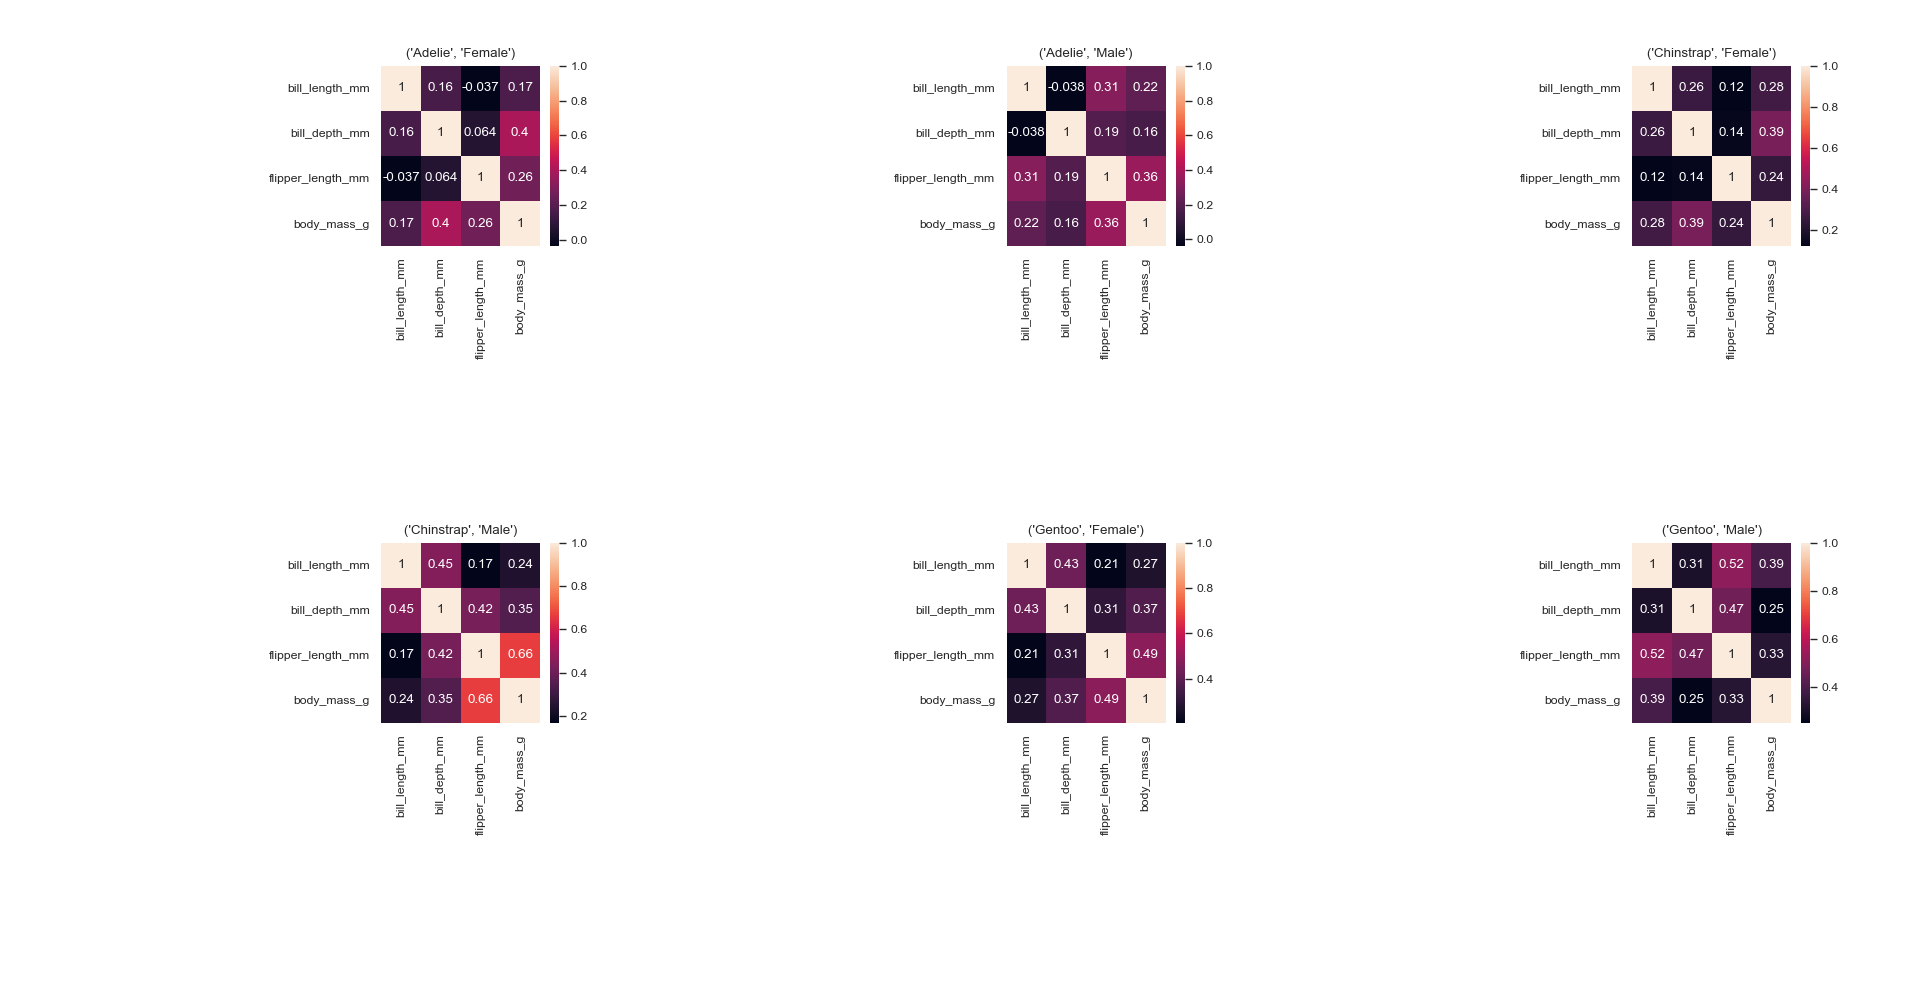
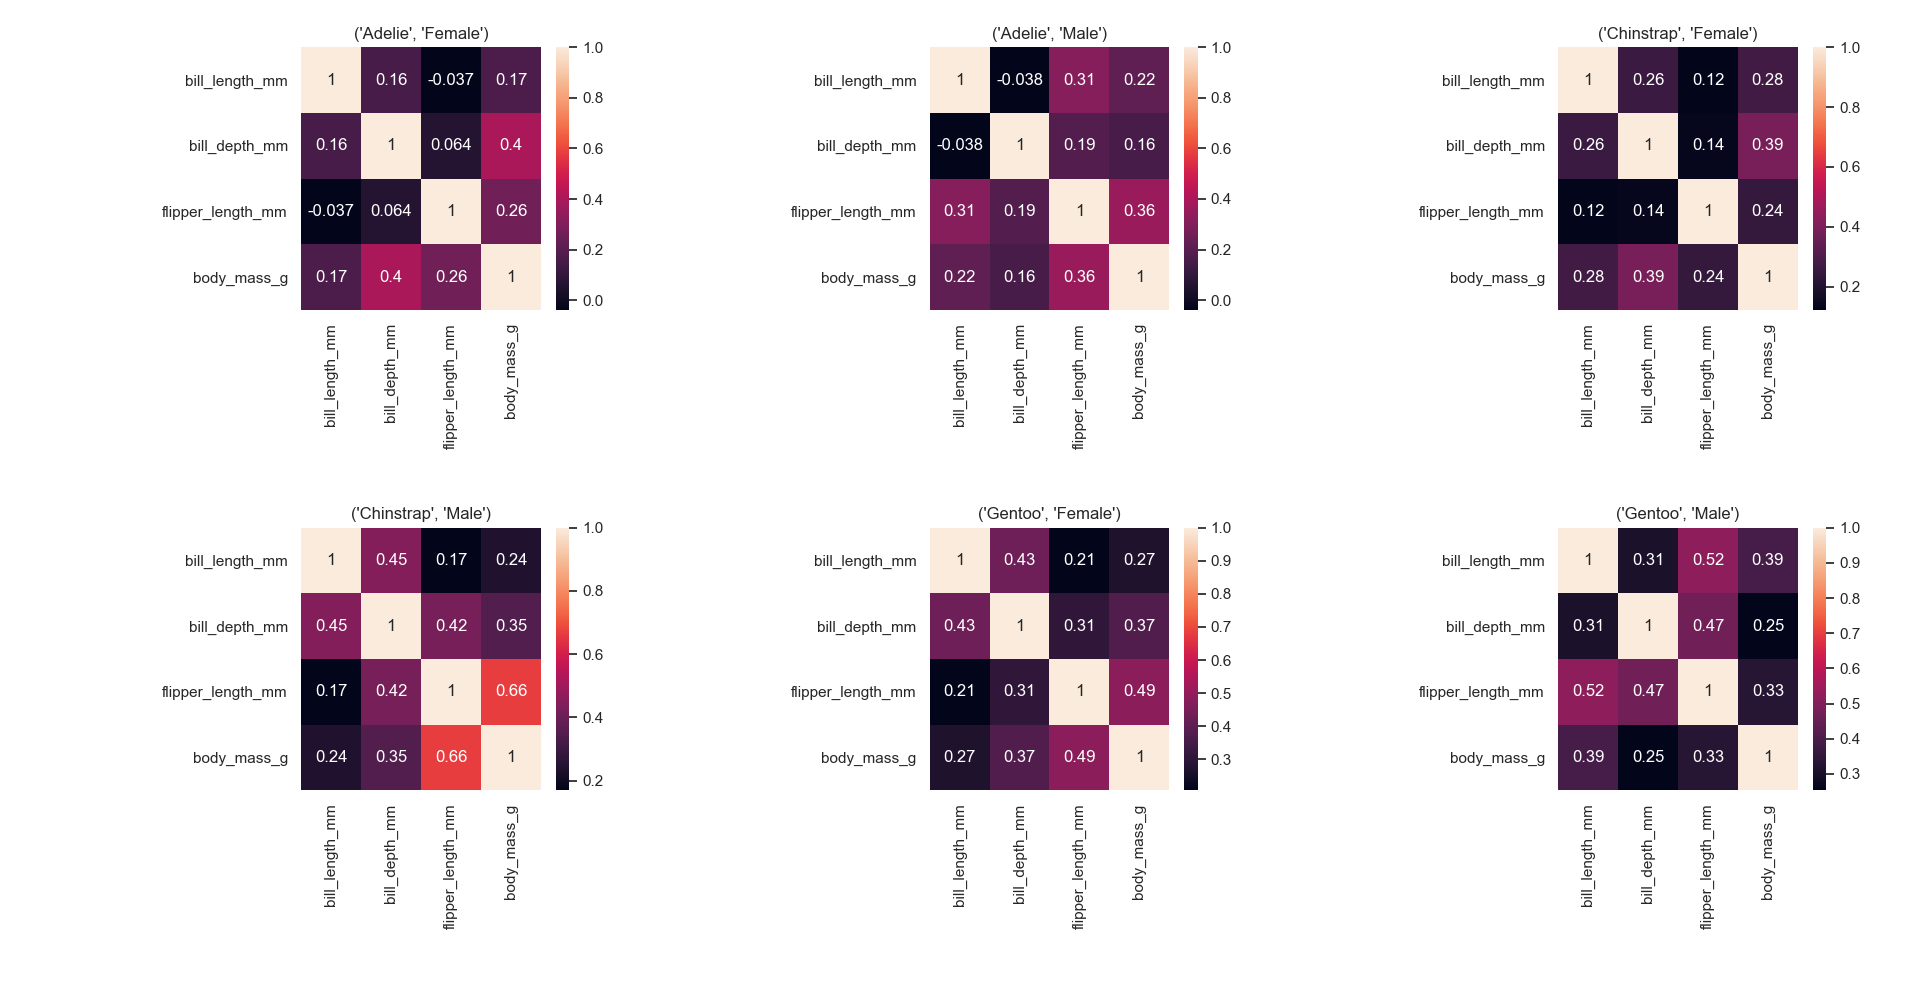
updated heatmap generation to make it more readable and larger

diff --git a/coding-adventures-source/ca005/ca005-pandas-grouping.py b/coding-adventures-source/ca005/ca005-pandas-grouping.py
@@ -13,26 +13,27 @@ grouped_df = df.groupby(['species', 'sex'])
 number_of_groups = len(grouped_df.groups) # groups is a dictionary so len(dict) will return the number of groups
 
 # Example of why you might want to loop through groups
-# sns.set(context='paper') # set style and labels size
-# f, axes = plt.subplots(2, int(number_of_groups/2)) # create plots grid
-# for (g, dataframe), ax in zip(grouped_df, axes.ravel()):
-#     corr_table = dataframe.corr() # calculate correlation table for each group
-#     sns.heatmap(corr_table, ax=ax, annot=True) # make heatmap of corr table
-#     ax.set_title(g)
-# plt.tight_layout()
-# plt.show()
+sns.set(context='notebook') # set style and labels size
+f, axes = plt.subplots(2, int(number_of_groups/2), figsize=(10,8)) # create plots grid
+for (g, dataframe), ax in zip(grouped_df, axes.ravel()):
+    corr_table = dataframe.corr() # calculate correlation table for each group
+    sns.heatmap(corr_table, ax=ax, annot=True) # make heatmap of corr table
+    ax.set_title(g)
+plt.tight_layout()
+# plt.subplots_adjust(hspace=1.2, wspace=0.8)
+plt.show()
 
-grouped_df.describe() # calculate stats per group
-da = grouped_df.agg({'body_mass_g': [np.mean, np.std]}) # get specific stats on specific variable
-print(da.loc['Adelie', 'Female']['body_mass_g', 'mean']) # access specific values using loc
-
-daT = da.T # transpose to get categories as variables instead of indeces
-for species in daT.columns.levels[0]: # get high hierarchy categories
-    daT[species, 'body_mass_diff'] = daT[species, 'Male'] - daT[species, 'Female']
-
-# matrix-like difference between dataframes
-df_m = df[df['sex'] == 'Male'].reset_index().drop('index',axis=1).copy() # make a copy of filtered observations
-df_f = df[df['sex'] == 'Female'].reset_index().drop('index',axis=1).copy() # drop old index column
-
-df_diff = df_m.groupby('species').mean() - df_f.groupby('species').mean()
-print(df_diff)
+# grouped_df.describe() # calculate stats per group
+# da = grouped_df.agg({'body_mass_g': [np.mean, np.std]}) # get specific stats on specific variable
+# print(da.loc['Adelie', 'Female']['body_mass_g', 'mean']) # access specific values using loc
+#
+# daT = da.T # transpose to get categories as variables instead of indeces
+# for species in daT.columns.levels[0]: # get high hierarchy categories
+#     daT[species, 'body_mass_diff'] = daT[species, 'Male'] - daT[species, 'Female']
+#
+# # matrix-like difference between dataframes
+# df_m = df[df['sex'] == 'Male'].reset_index().drop('index',axis=1).copy() # make a copy of filtered observations
+# df_f = df[df['sex'] == 'Female'].reset_index().drop('index',axis=1).copy() # drop old index column
+#
+# df_diff = df_m.groupby('species').mean() - df_f.groupby('species').mean()
+# print(df_diff)

diff --git a/_coding-adventures/ca005_pandas_tips_groupby.md b/_coding-adventures/ca005_pandas_tips_groupby.md
@@ -37,9 +37,8 @@ One common application for this could be plotting something per group. Here I **
 
 ```python
 number_of_groups = len(grouped_df.groups) # groups is a dictionary so len(dict) will return the number of groups
-
-sns.set(context='paper') # set style and labels size
-f, axes = plt.subplots(2, int(number_of_groups/2)) # create plots grid
+sns.set(context='notebook') # set style and labels size
+f, axes = plt.subplots(2, int(number_of_groups/2), figsize=(10,8)) # create plots grid
 for (g, dataframe), ax in zip(grouped_df, axes.ravel()):
     corr_table = dataframe.corr() # calculate correlation table for each group
     sns.heatmap(corr_table, ax=ax, annot=True) # make heatmap of corr table
